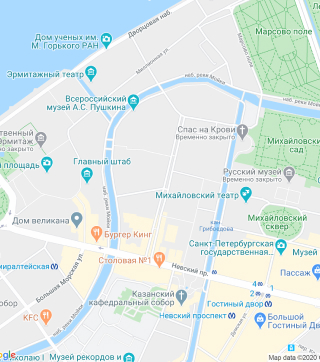
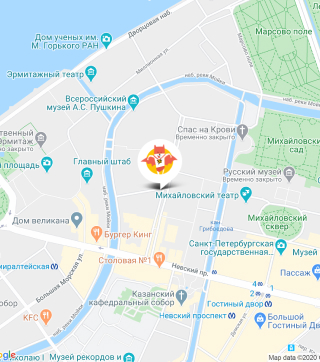
Адаптивная графика

Changed region(s): [[0.4375, 0.395, 0.5625, 0.547]]

diff --git a/source/catalog.html b/source/catalog.html
@@ -11,7 +11,7 @@
     <div class="page-header__wrap">
       <a class="page-header__link-logo" href="index.html">
         <picture>
-          <source media="(min-width: 1220px)" srcset="img/logo/logo-desktop.svg">
+          <source media="(min-width: 1440px)" srcset="img/logo/logo-desktop.svg">
           <source media="(min-width: 768px)" srcset="img/logo/logo-tablet.svg">
           <img class="page-header__logo-img" src="img/logo/logo-mobile.svg" width="34" height="36" alt="Логотип сайта Cat Energy">
         </picture>
@@ -50,7 +50,10 @@
           <li class="main-catalog__item product">
             <div class="product_wrap">
               <a class="product__link-img">
-                <img class="product__img" src="/img/product/product-1.jpg" width="68" height="86" alt="Продукт Cat Energy PRO 500 г">
+                <picture class="product__picture">
+                  <source media="(min-width: 768px)" srcset="/img/product/product-tablet-1.png 1x, /img/product/product-tablet-1@2x.png 2x">
+                  <img class="product__img" src="/img/product/product-mobile-1.png" srcset="/img/product/product-mobile-1@2x.png 2x" width="140" height="112" alt="Продукт Cat Energy PRO 500 г">
+                </picture>
               </a>
               <a class="product__link-title">
                 <h3 class="product__title">Cat Energy Pro 500 г</h3>
@@ -78,7 +81,10 @@
           <li class="main-catalog__item product">
             <div class="product_wrap">
               <a class="product__link-img">
-                <img class="product__img" src="/img/product/product-2.jpg" width="84" height="100" alt="Продукт Cat Energy PRO 1000 г">
+                <picture class="product__picture">
+                  <source media="(min-width: 768px)" srcset="/img/product/product-tablet-2.png 1x, /img/product/product-tablet-2@2x.png 2x">
+                  <img class="product__img" src="/img/product/product-mobile-2.png" srcset="/img/product/product-mobile-2@2x.png 2x" width="140" height="112" alt="Продукт Cat Energy PRO 1000 г">
+                </picture>
               </a>
               <a class="product__link-title">
                 <h3 class="product__title">Cat Energy Pro 1000 г</h3>
@@ -106,7 +112,10 @@
           <li class="main-catalog__item product">
             <div class="product_wrap">
               <a class="product__link-img">
-                <img class="product__img" src="/img/product/product-3.jpg" width="68" height="78" alt="Продукт Cat Energy PRO 500 г">
+                <picture class="product__picture">
+                  <source media="(min-width: 768px)" srcset="/img/product/product-tablet-3.png 1x, /img/product/product-tablet-3@2x.png 2x">
+                  <img class="product__img" src="/img/product/product-mobile-3.png" srcset="/img/product/product-mobile-3@2x.png 2x" width="140" height="112" alt="Продукт Cat Energy PRO 500 г">
+                </picture>
               </a>
               <a class="product__link-title">
                 <h3 class="product__title">Cat Energy Pro 500 г</h3>
@@ -134,7 +143,10 @@
           <li class="main-catalog__item product">
             <div class="product_wrap">
               <a class="product__link-img">
-                <img class="product__img" src="/img/product/product-4.jpg" width="84" height="100" alt="Продукт Cat Energy PRO 1000 г">
+                <picture class="product__picture">
+                  <source media="(min-width: 768px)" srcset="/img/product/product-tablet-4.png 1x, /img/product/product-tablet-4@2x.png 2x">
+                  <img class="product__img" src="/img/product/product-mobile-4.png" srcset="/img/product/product-mobile-4@2x.png 2x" width="140" height="112" alt="Продукт Cat Energy PRO 1000 г">
+                </picture>
               </a>
               <a class="product__link-title">
                 <h3 class="product__title">Cat Energy Pro 500 г</h3>
@@ -162,7 +174,10 @@
           <li class="main-catalog__item product">
             <div class="product_wrap">
               <a class="product__link-img">
-                <img class="product__img" src="/img/product/product-5.jpg" width="68" height="78" alt="Продукт Cat Energy slim 500 г">
+                <picture class="product__picture">
+                  <source media="(min-width: 768px)" srcset="/img/product/product-tablet-5.png 1x, /img/product/product-tablet-5@2x.png 5x">
+                  <img class="product__img" src="/img/product/product-mobile-5.png" srcset="/img/product/product-mobile-5@2x.png 2x" width="140" height="112" alt="Продукт Cat Energy slim 500 г">
+                </picture>
               </a>
               <a class="product__link-title">
                 <h3 class="product__title">Cat Energy Slim 500 г</h3>
@@ -190,7 +205,10 @@
           <li class="main-catalog__item product">
             <div class="product_wrap">
               <a class="product__link-img">
-                <img class="product__img" src="/img/product/product-6.jpg" width="84" height="100" alt="Продукт Cat Energy PRO 1000 г">
+                <picture class="product__picture">
+                  <source media="(min-width: 768px)" srcset="/img/product/product-tablet-6.png 1x, /img/product/product-tablet-6@2x.png 2x">
+                  <img class="product__img" src="/img/product/product-mobile-6.png" srcset="/img/product/product-mobile-6@2x.png 2x" width="140" height="112" alt="Продукт Cat Energy PRO 1000 г">
+                </picture>
               </a>
               <a class="product__link-title">
                 <h3 class="product__title">Cat Energy Slim 1000 г</h3>
@@ -218,7 +236,10 @@
           <li class="main-catalog__item product">
             <div class="product_wrap">
               <a class="product__link-img">
-                <img class="product__img" src="/img/product/product-7.jpg" width="72" height="84" alt="Продукт Cat Energy slim 500 г">
+                <picture class="product__picture">
+                  <source media="(min-width: 768px)" srcset="/img/product/product-tablet-7.png 1x, /img/product/product-tablet-7@2x.png 2x">
+                  <img class="product__img" src="/img/product/product-mobile-7.png" srcset="/img/product/product-mobile-7@2x.png 2x" width="140" height="112" alt="Продукт Cat Energy slim 500 г">
+                </picture>
               </a>
               <a class="product__link-title">
                 <h3 class="product__title">Cat Energy Slim 500 г</h3>
@@ -314,7 +335,12 @@
           <address class="contacts__address">ул. Большая Конюшенная, д. 19/8 Санкт-Петербург</address>
         </div>
       </div>
-      <img class="contacts__map" src="img/location-mobile.jpg" srcset="img/location-mobile@2x.jpg" width="320" height="362" alt="Картинка заглушка">
+      <picture>
+        <picture>
+          <source media="(min-width: 1440px)" srcset="/img/location-desktop.jpg 1x, /img/location-desktop@2x.jpg 2x">
+          <source media="(min-width: 768px)" srcset="/img/location-tablet.jpg 1x, /img/location-tablet@2x.jpg 2x">
+          <img class="contacts__map" src="img/location-mobile.jpg" srcset="img/location-mobile@2x.jpg" width="320" height="362" alt="Картинка заглушка">
+        </picture>
     </section>
   </main>
 

diff --git a/source/index.html b/source/index.html
@@ -13,7 +13,7 @@
         <div class="page-header__wrap">
           <a class="page-header__link-logo" href="#">
             <picture>
-              <source media="(min-width: 1220px)" srcset="img/logo/logo-desktop.svg">
+              <source media="(min-width: 1440px)" srcset="img/logo/logo-desktop.svg">
               <source media="(min-width: 768px)" srcset="img/logo/logo-tablet.svg">
               <img class="page-header__logo-img" src="img/logo/logo-mobile.svg" width="34" height="36" alt="Логотип сайта Cat Energy">
             </picture>
@@ -45,7 +45,7 @@
         <h1 class="promo__title">Функциональное питание для котов</h1>
         <p class="promo__slogan">Занялся собой? Займись и котом!</p>
         <picture class="promo__picture">
-          <source media="(min-width: 1220px)" srcset="/img/promo-desktop.png 1x, /img/promo-desktop@2x.png 2x">
+          <source media="(min-width: 1440px)" srcset="/img/promo-desktop.png 1x, /img/promo-desktop@2x.png 2x">
           <source media="(min-width: 768px)" srcset="/img/promo-tablet.png 1x, /img/promo-tablet@2x.png 2x">
           <img class="promo__image" src="/img/promo-mobile.png" srcset="/img/promo-mobile@2x.png 2x" width="280" height="270" alt="Одна порция Cat Energy">
         </picture>
@@ -187,6 +187,7 @@
         </div>
         <div class="example__wrap-toggle">
           <picture>
+            <source media="(min-width: 1440px)" srcset="/img/image_cat_desktop.png 1x, img/image_cat_desktop@2x.png 2x">
             <source media="(min-width: 768px)" srcset="/img/image_cat_tablet.png 1x, img/image_cat_tablet@2x.png 2x">
             <img class="example__img" src="/img/before-mobile.png" srcset="/img/before-mobile@2x.png 2x" width="311" height="232" alt="Живой пример кота">
           </picture>
@@ -211,7 +212,11 @@
           <address class="contacts__address">ул. Большая Конюшенная, д. 19/8 Санкт-Петербург</address>
         </div>
       </div>
-      <img class="contacts__map" src="img/location-mobile.jpg" srcset="img/location-mobile@2x.jpg" width="320" height="362" alt="Картинка заглушка">
+      <picture>
+        <source media="(min-width: 1440px)" srcset="/img/location-desktop.jpg 1x, /img/location-desktop@2x.jpg 2x">
+        <source media="(min-width: 768px)" srcset="/img/location-tablet.jpg 1x, /img/location-tablet@2x.jpg 2x">
+        <img class="contacts__map" src="img/location-mobile.jpg" srcset="img/location-mobile@2x.jpg" width="320" height="362" alt="Картинка заглушка">
+      </picture>
     </section>
   </main>
 

diff --git a/source/form.html b/source/form.html
@@ -11,7 +11,7 @@
     <div class="page-header__wrap">
       <a class="page-header__link-logo" href="index.html">
         <picture>
-          <source media="(min-width: 1220px)" srcset="img/logo/logo-desktop.svg">
+          <source media="(min-width: 1440px)" srcset="img/logo/logo-desktop.svg">
           <source media="(min-width: 768px)" srcset="img/logo/logo-tablet.svg">
           <img class="page-header__logo-img" src="img/logo/logo-mobile.svg" width="34" height="36" alt="Логотип сайта Cat Energy">
         </picture>
@@ -142,7 +142,11 @@
           <address class="contacts__address">ул. Большая Конюшенная, д. 19/8 Санкт-Петербург</address>
         </div>
       </div>
-      <img class="contacts__map" src="img/location-mobile.jpg" srcset="img/location-mobile@2x.jpg" width="320" height="362" alt="Картинка заглушка">
+      <picture>
+        <source media="(min-width: 1440px)" srcset="/img/location-desktop.jpg 1x, /img/location-desktop@2x.jpg 2x">
+        <source media="(min-width: 768px)" srcset="/img/location-tablet.jpg 1x, /img/location-tablet@2x.jpg 2x">
+        <img class="contacts__map" src="img/location-mobile.jpg" srcset="img/location-mobile@2x.jpg" width="320" height="362" alt="Картинка заглушка">
+      </picture>
     </section>
   </main>
 

diff --git a/source/less/blocks/present.less b/source/less/blocks/present.less
@@ -1,21 +1,37 @@
 .present {
   min-height: 289px;
 
-  background-image: url("/img/present.jpg");
+  background-image: url("/img/present-mobil.jpg");
   background-size: cover;
   background-repeat: no-repeat;
   background-position: 0 0;
+
+  @media (min-resolution: 2dppx) {
+    background-image: url("/img/present-mobile@2x.jpg");
+  }
 
   @media (min-width: @tablet) {
     display: flex;
     align-items: center;
     padding: 0 0 0 423px;
+    background-image: url("/img/present-tablet.jpg");
+    background-size: 100%;
+    min-height: 200px;
+
+    @media (min-resolution: 2dppx) {
+      background-image: url("/img/present-tablet@2x.jpg");
+    }
   }
 
   @media (min-width: @desktop) {
     width: 245px;
     padding: 0;
     justify-content: center;
+    background-image: url("/img/present-desktop.jpg");
+
+    @media (min-resolution: 2dppx) {
+      background-image: url("/img/present-desktop@2x.jpg");
+    }
   }
 }
 

diff --git a/source/less/blocks/selection-form.less b/source/less/blocks/selection-form.less
@@ -107,8 +107,8 @@
   &--email::after {
     position: absolute;
     content: "";
-    width: 18px;
-    height: 13px;
+    width: 19px;
+    height: 14px;
     background-image: url("../img/input-icon/icon_email.svg");
     background-position: 0 0;
     background-repeat: no-repeat;

diff --git a/source/less/blocks/product.less b/source/less/blocks/product.less
@@ -64,6 +64,17 @@
   }
 }
 
+.product__img {
+  @media (min-width: @tablet) {
+    width: auto;
+    height: 200px;
+  }
+
+  @media (min-width: @desktop) {
+    height: 196px;
+  }
+}
+
 
 .product__title {
   width: 50%;

diff --git a/source/less/blocks/contacts.less b/source/less/blocks/contacts.less
@@ -74,4 +74,8 @@
   align-self: center;
   object-fit: cover;
   width: 100%;
+
+  @media (min-width: @desktop) {
+    height: 400px;
+  }
 }

diff --git a/source/less/blocks/example.less b/source/less/blocks/example.less
@@ -98,6 +98,8 @@
 
   @media (min-width: @desktop) {
     grid-area: img;
+    width: 690px;
+    height: auto;
   }
 }
 

diff --git a/source/less/global/variables.less b/source/less/global/variables.less
@@ -31,5 +31,5 @@
 // Viewports
 
 @tablet: 768px;
-@desktop: 1220px;
+@desktop: 1440px;
 @mobile: 767px;
